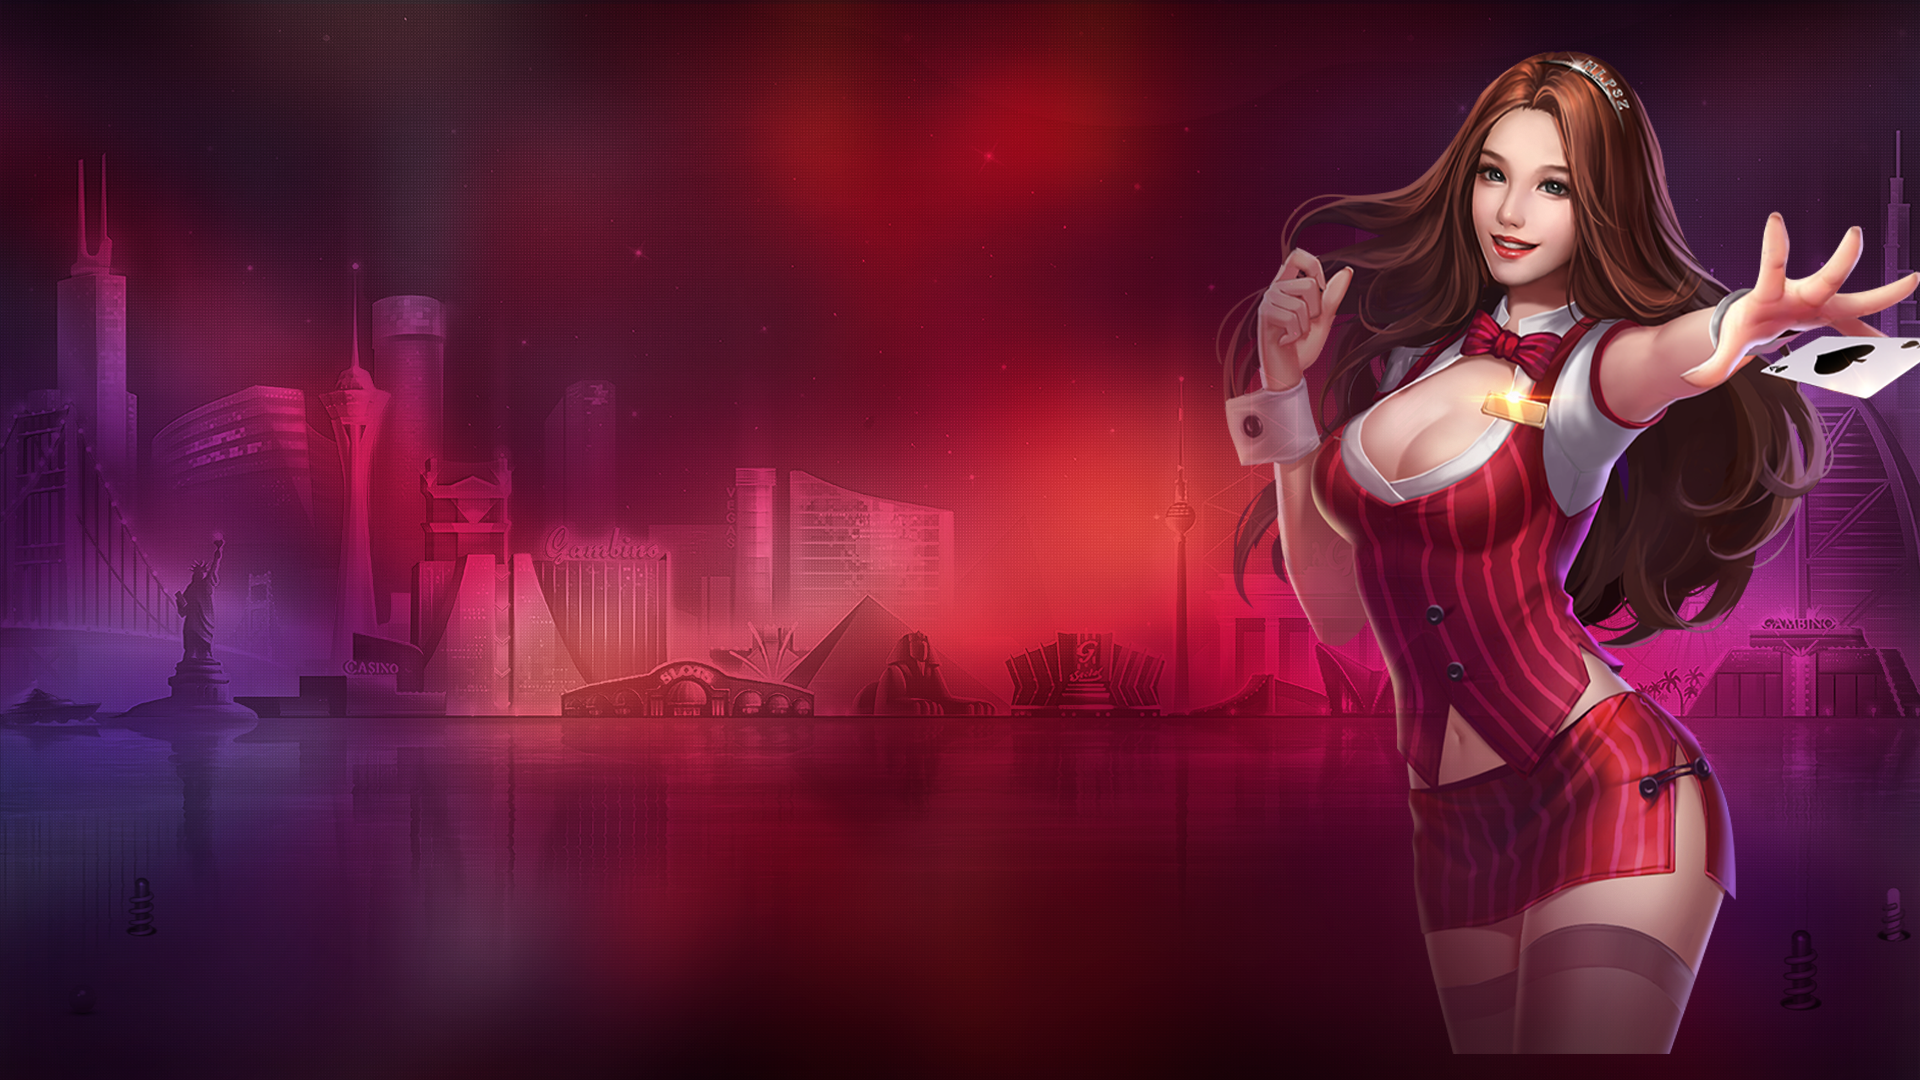
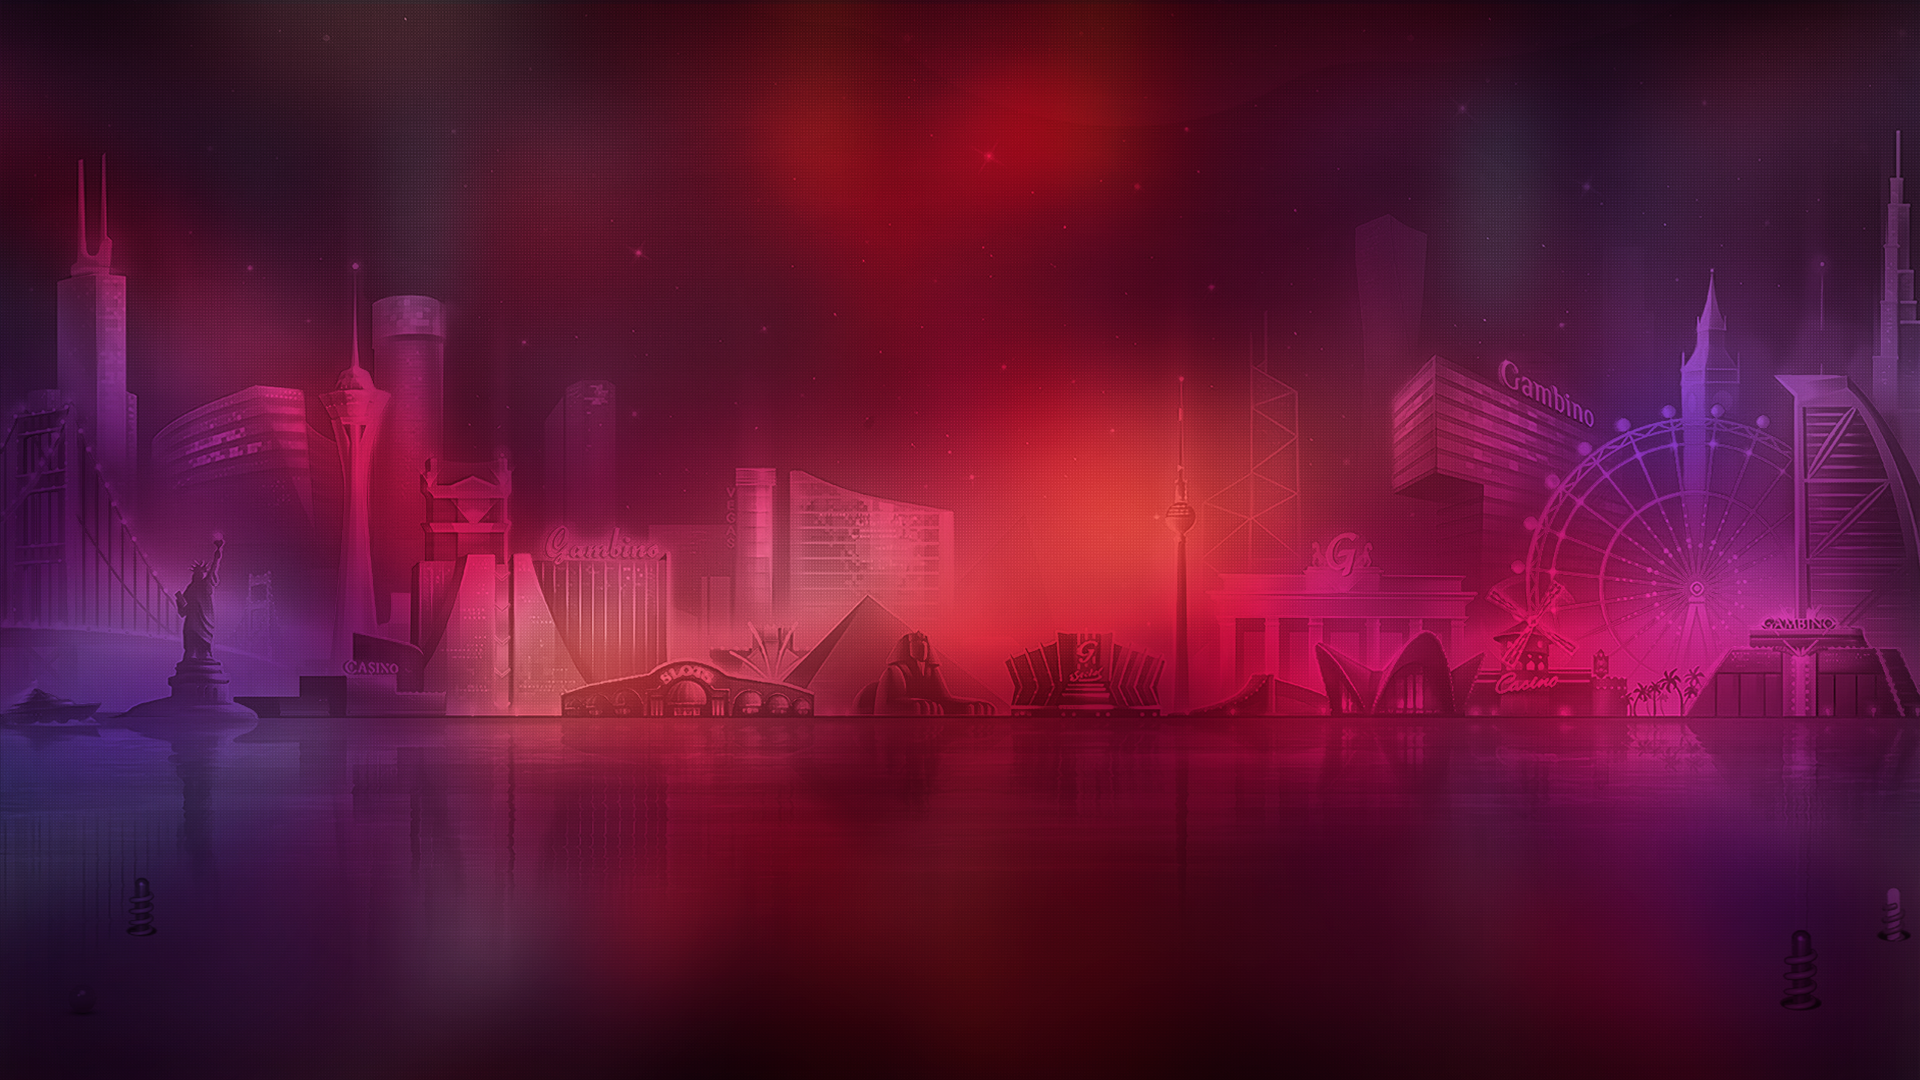
fix gif

Changed region(s): [[0.625, 0.0306, 1.0, 0.9778]]

diff --git a/index.html b/index.html
@@ -20,6 +20,10 @@
 <body>
     <!--Body Start Here-->
     <div class="container-fluid background-image l4_container">
+        <div class="l4_mainAnimation">
+            haha
+            <img src="assets/images/l4_animation2.gif" alt="">
+        </div>
         <div class="row l4_top">
             <div class="col-lg-3 col-md-0 l4_leaderBoard">
                 <div class="l4_playerLeaderBoard">
@@ -87,7 +91,7 @@
                     <img src="assets/images/logo.png" alt="do99" />
                 </div>
                 <div class="l4_text">
-                    <img src="assets/images/l4_text.png" alt="sam xe tau nha" />
+                    <img src="assets/images/l4_text.gif" alt="sam xe tau nha" />
                 </div>
                 <div class="l4_mobileForm">
                     <img src="assets/images/l4_formBg.png" alt="sam xe tau nha" />
@@ -195,11 +199,6 @@
                             </div>
                             <div class="lb_swiper-slide  swiper-slide" onclick="window.open('#','mywindow');">
                                 <div class="l4_itemContainer">
-                                    <img class="lb_colItem" src="assets/images/group3/than-xoc.png" />
-                                </div>
-                            </div>
-                            <div class="lb_swiper-slide  swiper-slide" onclick="window.open('#','mywindow');">
-                                <div class="l4_itemContainer">
                                     <img class="lb_colItem" src="assets/images/group3/thien-dia.png" />
                                 </div>
                             </div>
@@ -224,6 +223,9 @@
         </div>
         <div class="modal" id="form-modal">
             <div class="l4_mobileForm l4_formPc">
+                <div class="l4_secondAnimtion">
+                    <img src="assets/images/l4_animation1.gif" alt="sam xe tau nha" />
+                </div>
                 <img src="assets/images/l4_formBg.png" alt="sam xe tau nha" />
                 <div class="l4_btnClose" onclick="closeModal()">
                     <img src="assets/images/l4_btnClose.png" alt="close" />

diff --git a/landing-4.html b/landing-4.html
@@ -20,6 +20,10 @@
 <body>
     <!--Body Start Here-->
     <div class="container-fluid background-image l4_container">
+        <div class="l4_mainAnimation">
+            haha
+            <img src="assets/images/l4_animation2.gif" alt="">
+        </div>
         <div class="row l4_top">
             <div class="col-lg-3 col-md-0 l4_leaderBoard">
                 <div class="l4_playerLeaderBoard">
@@ -87,7 +91,7 @@
                     <img src="assets/images/logo.png" alt="do99" />
                 </div>
                 <div class="l4_text">
-                    <img src="assets/images/l4_text.png" alt="sam xe tau nha" />
+                    <img src="assets/images/l4_text.gif" alt="sam xe tau nha" />
                 </div>
                 <div class="l4_mobileForm">
                     <img src="assets/images/l4_formBg.png" alt="sam xe tau nha" />
@@ -195,11 +199,6 @@
                             </div>
                             <div class="lb_swiper-slide  swiper-slide" onclick="window.open('#','mywindow');">
                                 <div class="l4_itemContainer">
-                                    <img class="lb_colItem" src="assets/images/group3/than-xoc.png" />
-                                </div>
-                            </div>
-                            <div class="lb_swiper-slide  swiper-slide" onclick="window.open('#','mywindow');">
-                                <div class="l4_itemContainer">
                                     <img class="lb_colItem" src="assets/images/group3/thien-dia.png" />
                                 </div>
                             </div>
@@ -224,6 +223,9 @@
         </div>
         <div class="modal" id="form-modal">
             <div class="l4_mobileForm l4_formPc">
+                <div class="l4_secondAnimtion">
+                    <img src="assets/images/l4_animation1.gif" alt="sam xe tau nha" />
+                </div>
                 <img src="assets/images/l4_formBg.png" alt="sam xe tau nha" />
                 <div class="l4_btnClose" onclick="closeModal()">
                     <img src="assets/images/l4_btnClose.png" alt="close" />

diff --git a/assets/css/landing-4.css b/assets/css/landing-4.css
@@ -3,6 +3,16 @@
     background-size: cover;
     background-position: center;
     min-height: 100vh;
+    overflow: hidden;
+    position: relative;
+}
+
+.l4_mainAnimation {
+    position: absolute;
+    bottom: 0px;
+    right: -8%;
+    width: 40%;
+    object-fit: contain;
 }
 
 .l4_container img {
@@ -68,6 +78,7 @@
 .l4_social {
     display: flex;
     align-items: flex-start;
+    z-index: 9;
 }
 
 .l4_socialIcon {
@@ -103,6 +114,11 @@
     width: 33%;
     position: relative;
     margin: 10% auto 0;
+}
+
+.l4_secondAnimtion {
+    position: absolute;
+    left: -25vw;
 }
 
 .l4_formBtns {
@@ -232,6 +248,19 @@
 }
 
 
+.l4_secondAnimtion {
+    position: absolute;
+    left: -50%;
+}
+
+@media screen and (max-width: 1366px) {
+
+    .l4_secondAnimtion {
+        position: absolute;
+        left: -25vw;
+    }
+}
+
 
 @media screen and (max-width: 990px) {
 
@@ -245,6 +274,10 @@
 
     .l4_container {
         background-image: url('/assets/images/l4_bg_mobile.png');
+    }
+
+    .l4_mainAnimation {
+        display: none;
     }
 
     .l4_leaderBoard {
